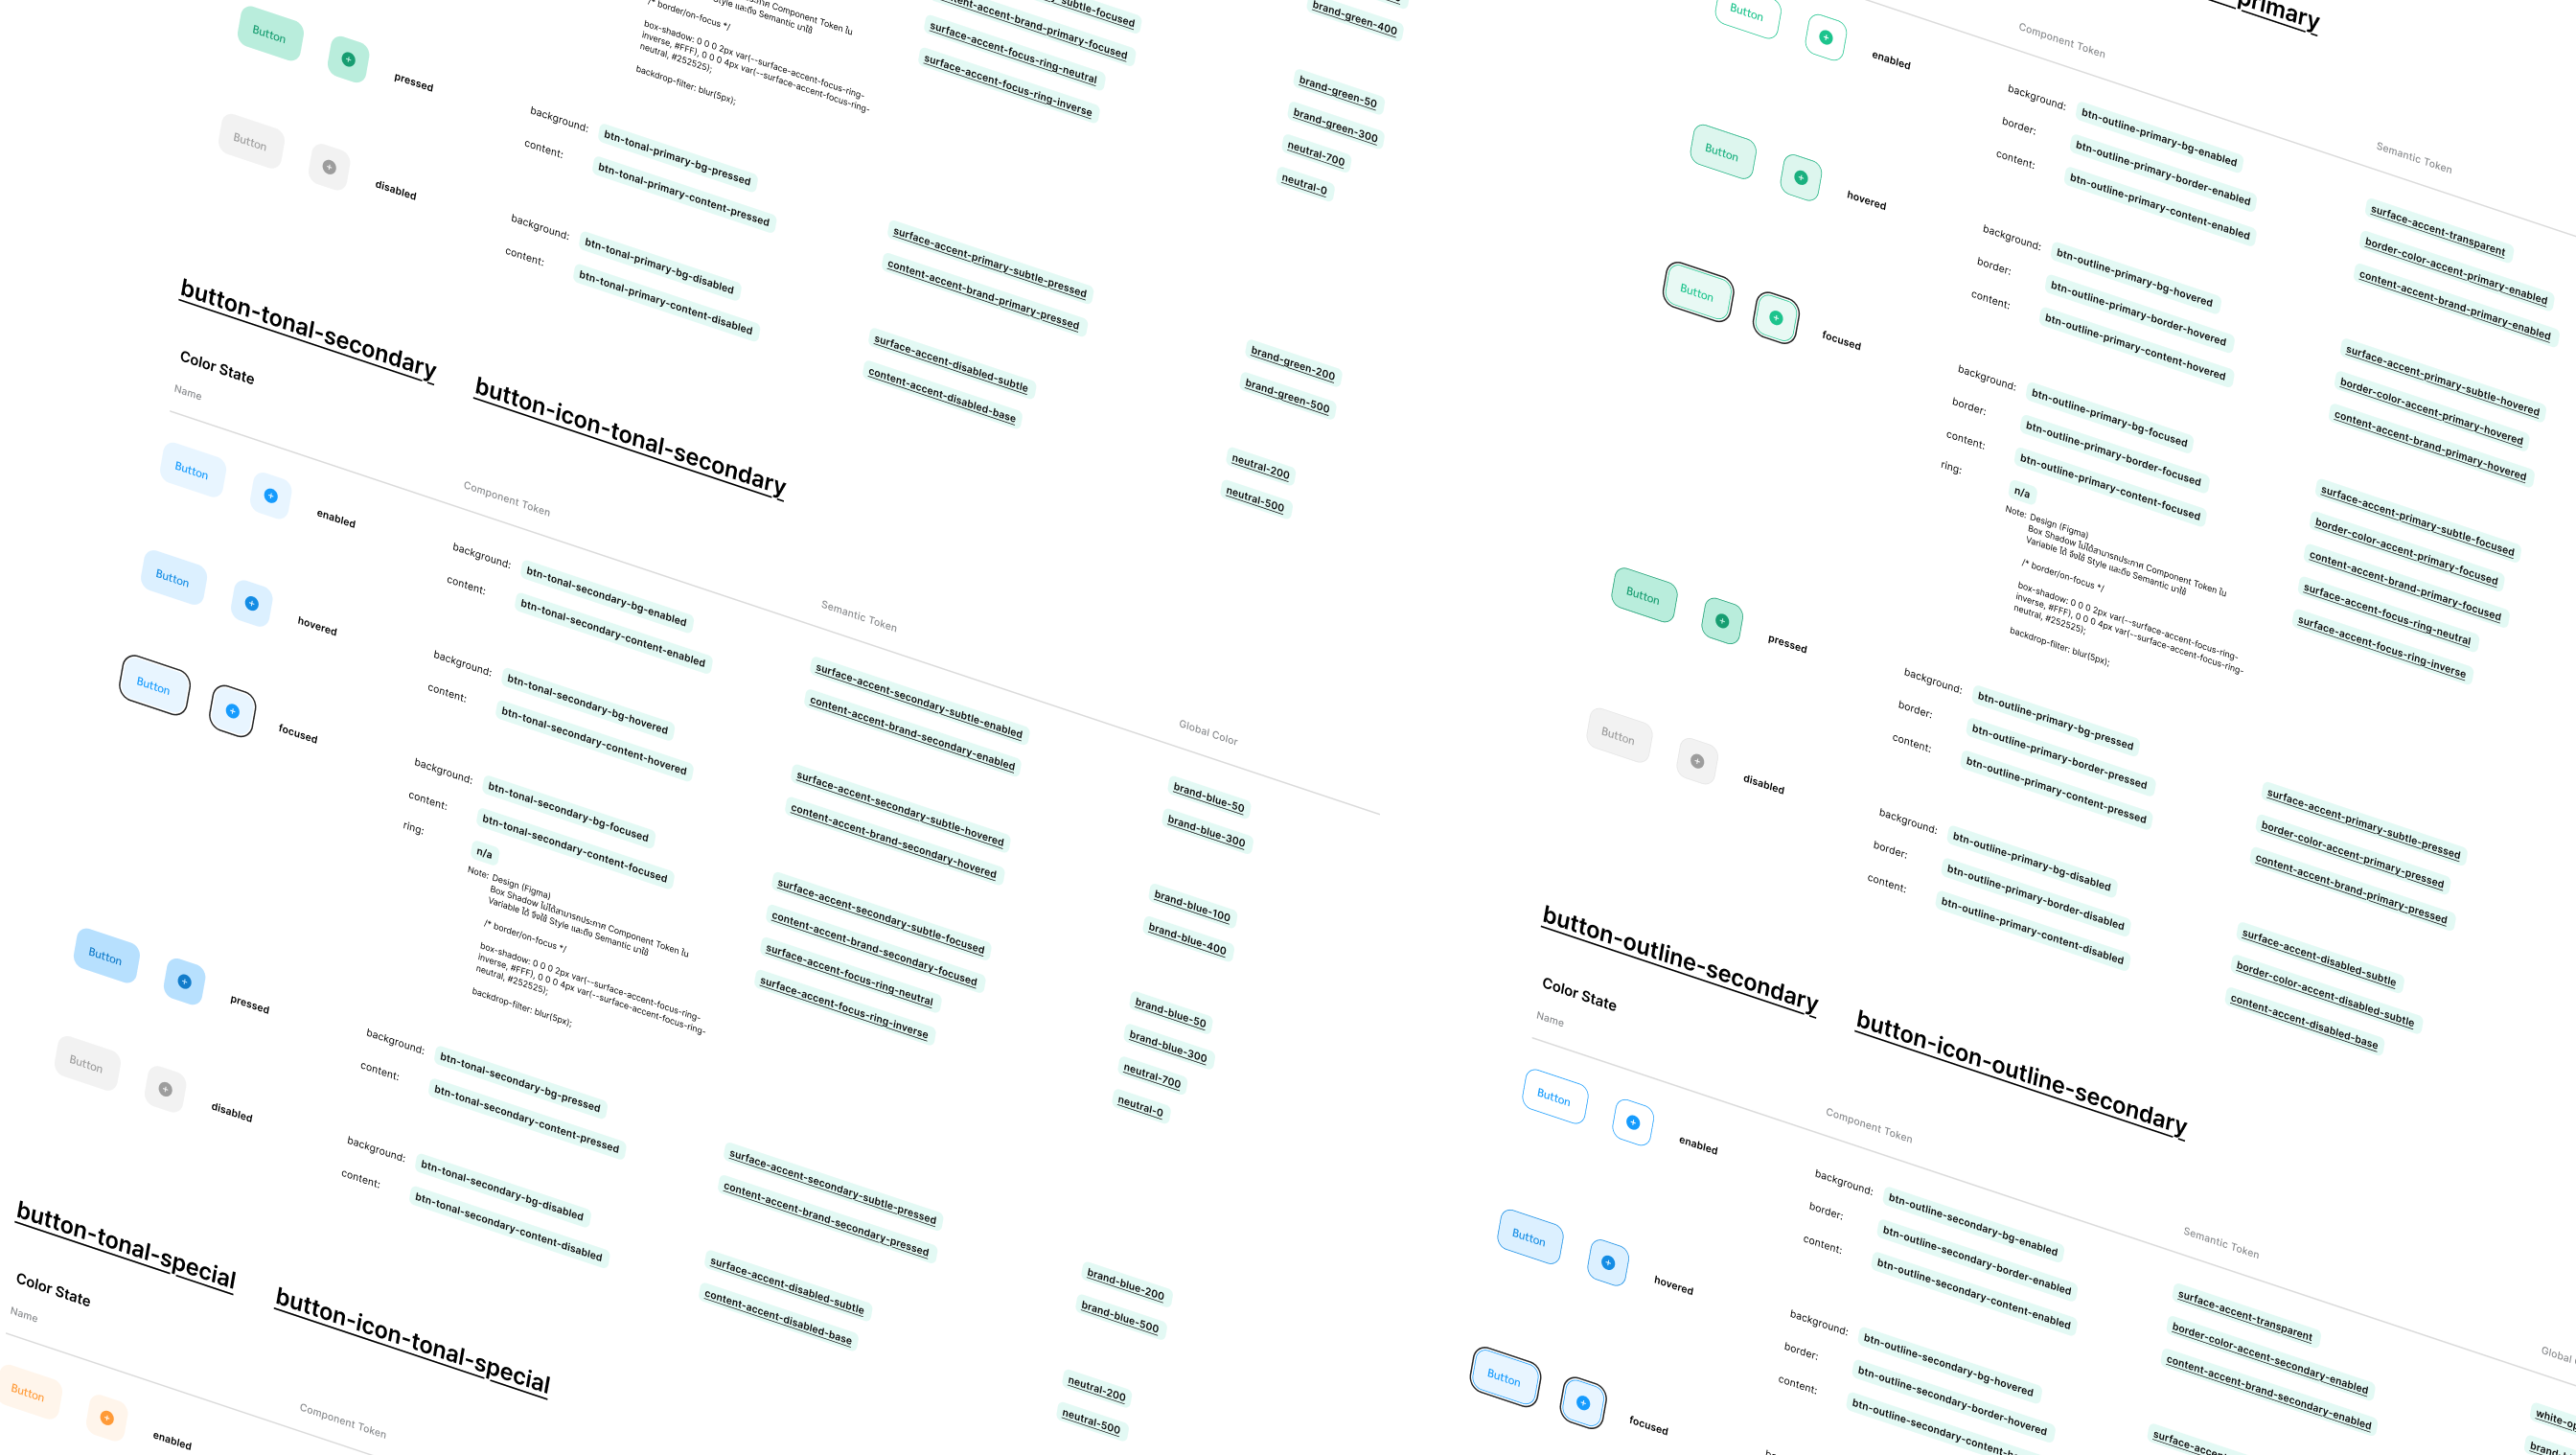
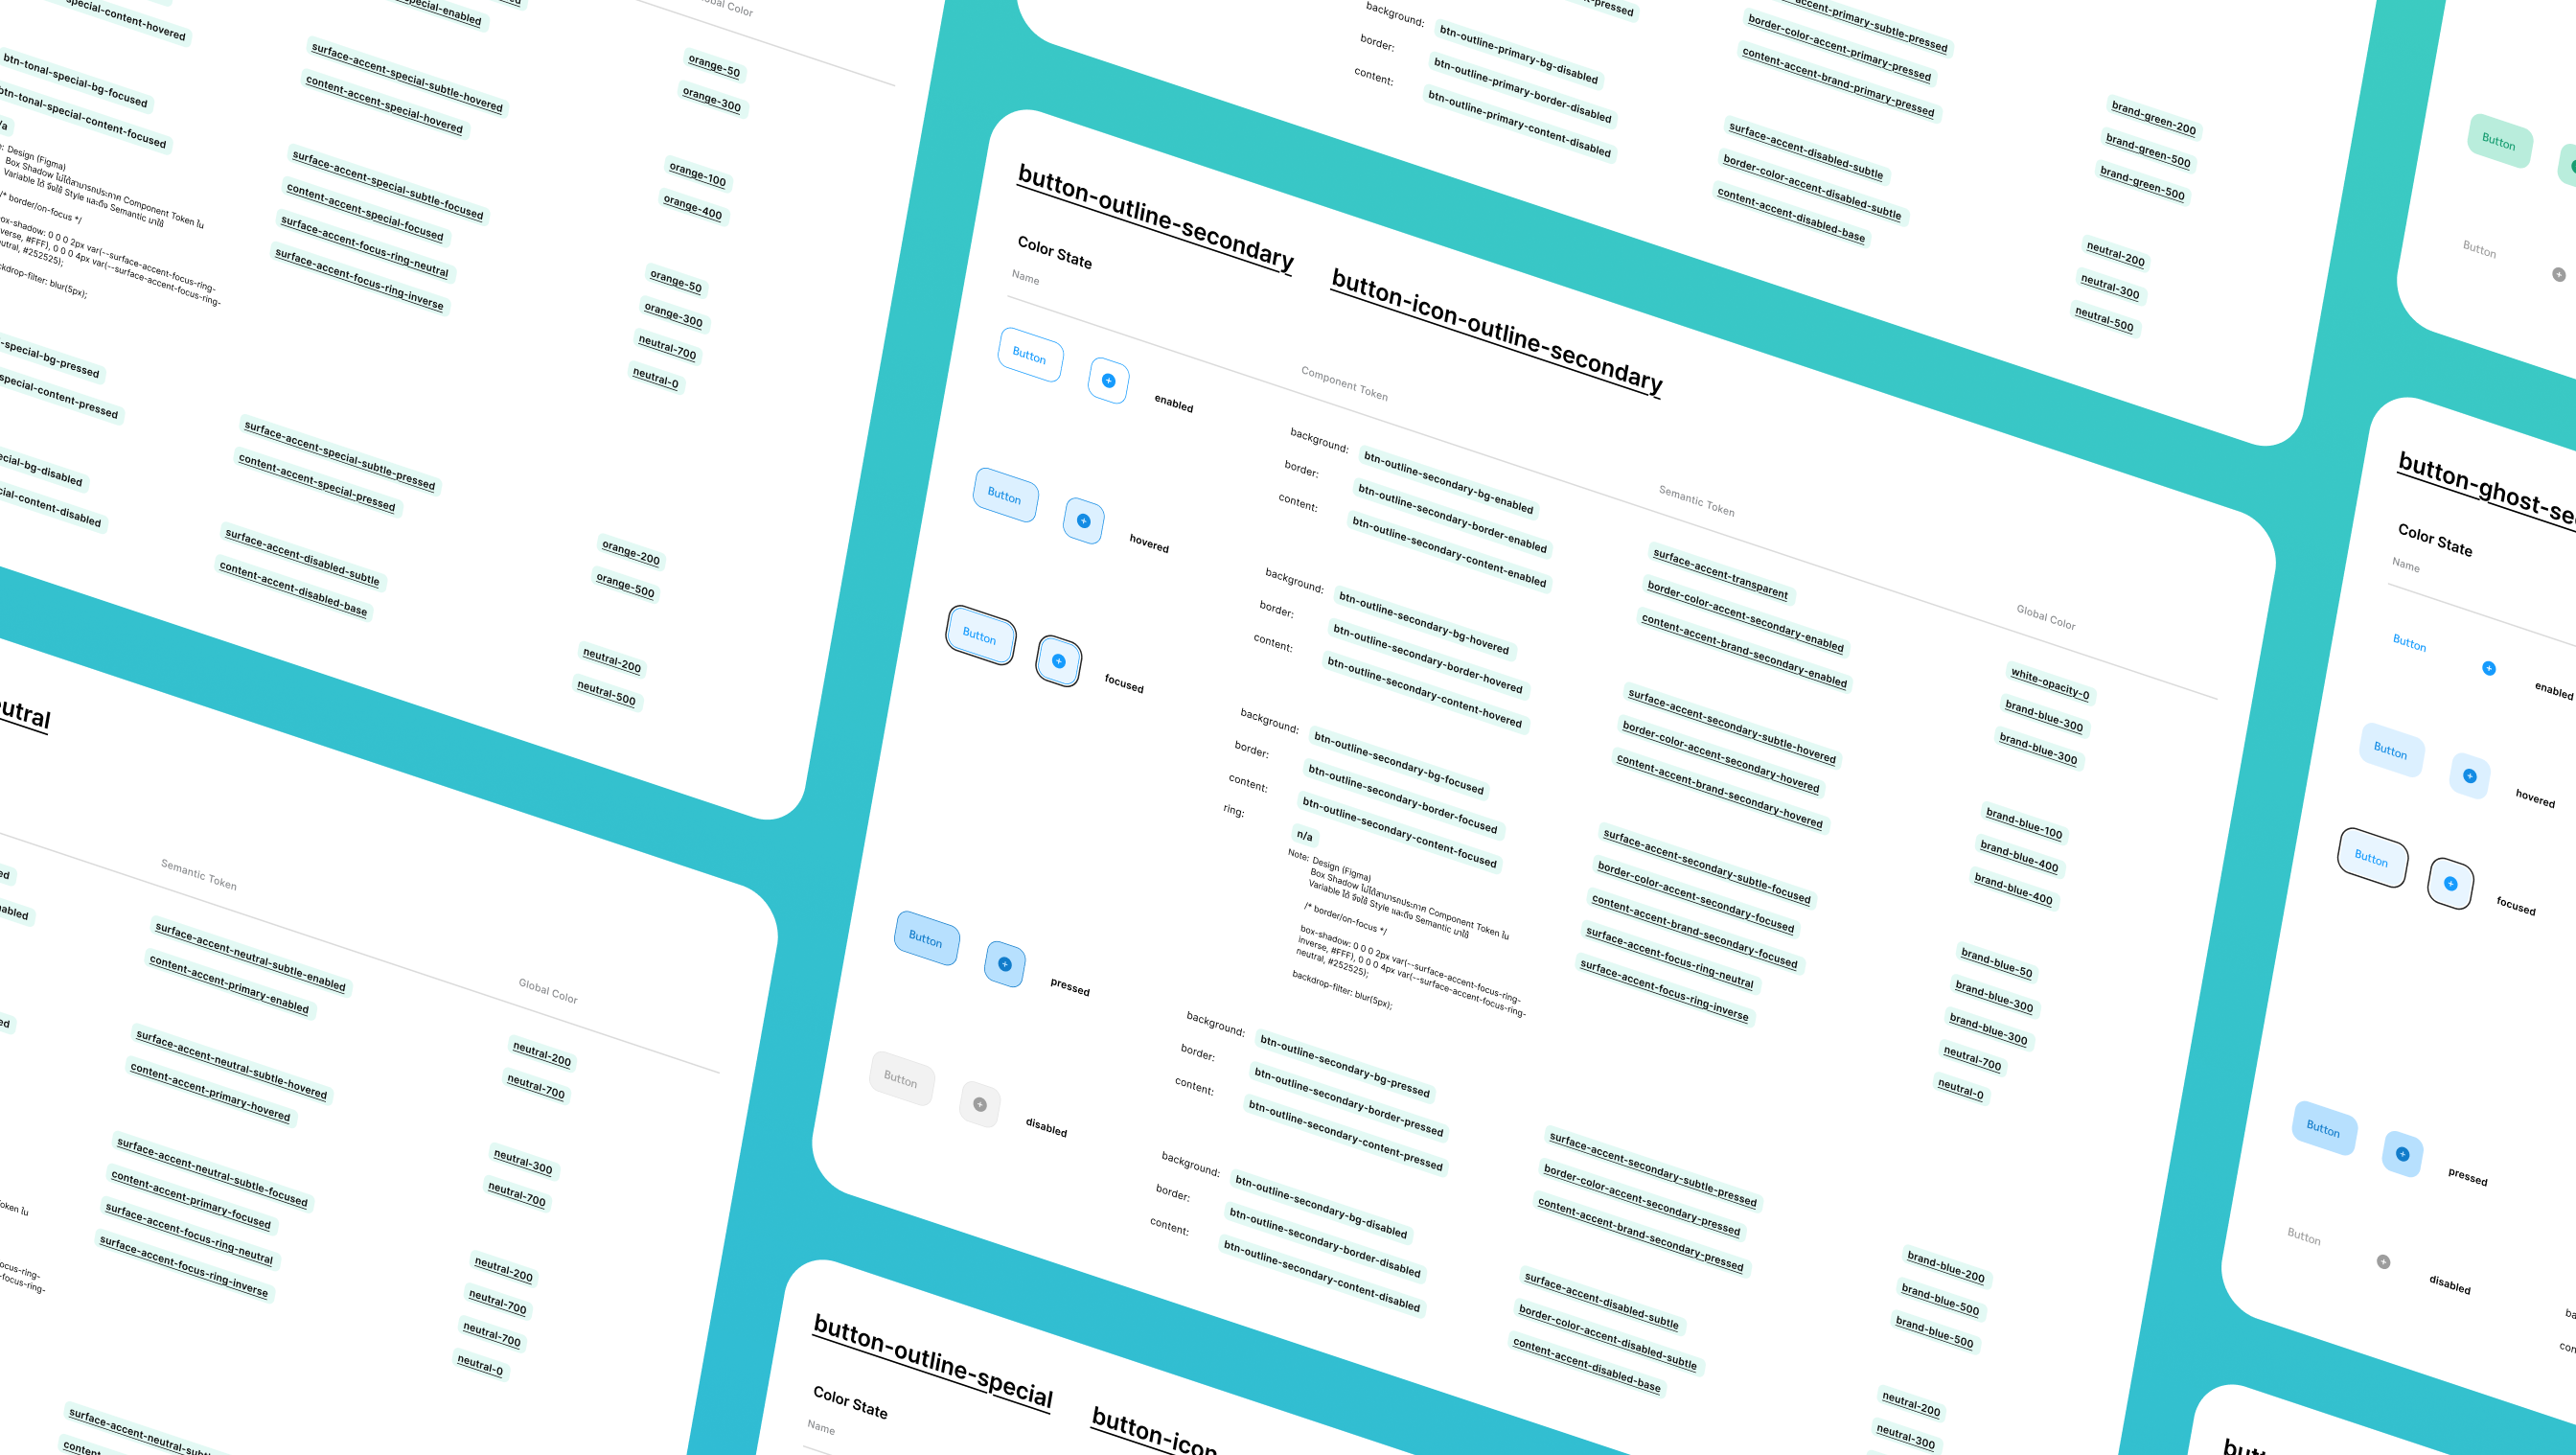
Fix Swiper nav from other pages: use initialSlide instead of slideTo
- HomeSwiper reads sessionStorage before render and passes initialSlide
  so Swiper starts at the correct slide without a post-init slideTo call
  (which was breaking Mousewheel scroll after cross-page navigation)
- Navbar uses sessionStorage + router.push instead of hash navigation
  to prevent browser native scroll from corrupting Swiper's activeIndex
- Also: LoadingScreen, HeroSection priority, Navbar transparent bg on /,
  touchAngle on inner Swiper, updated banner/work images

diff --git a/components/HomeSwiper.tsx b/components/HomeSwiper.tsx
@@ -1,6 +1,6 @@
 "use client";
 
-import { useEffect, useRef } from "react";
+import { useEffect, useRef, useState } from "react";
 import { Swiper, SwiperSlide } from "swiper/react";
 import { Mousewheel } from "swiper/modules";
 import type { Swiper as SwiperType } from "swiper";
@@ -13,6 +13,14 @@ const SLIDE_IDS = ["home", "work", "contact"];
 
 export default function HomeSwiper() {
   const swiperRef = useRef<SwiperType | null>(null);
+
+  const [initialSlide] = useState(() => {
+    if (typeof window === "undefined") return 0;
+    const target = sessionStorage.getItem("targetSlide");
+    if (!target) return 0;
+    const idx = SLIDE_IDS.indexOf(target);
+    return idx >= 0 ? idx : 0;
+  });
 
   useEffect(() => {
     const handler = (e: Event) => {
@@ -31,8 +39,15 @@ export default function HomeSwiper() {
       mousewheel={{ thresholdDelta: 30 }}
       speed={1000}
       slidesPerView={1}
+      initialSlide={initialSlide}
       className="!h-screen w-full"
-      onSwiper={(s) => { swiperRef.current = s; }}
+      onSwiper={(s) => {
+        swiperRef.current = s;
+        if (initialSlide > 0) {
+          sessionStorage.removeItem("targetSlide");
+          window.dispatchEvent(new CustomEvent("swiperSlideChange", { detail: SLIDE_IDS[initialSlide] }));
+        }
+      }}
       onSlideChange={(s) => {
         window.dispatchEvent(
           new CustomEvent("swiperSlideChange", { detail: SLIDE_IDS[s.activeIndex] })

diff --git a/components/Navbar.tsx b/components/Navbar.tsx
@@ -2,7 +2,7 @@
 
 import Link from "next/link";
 import Image from "next/image";
-import { usePathname } from "next/navigation";
+import { usePathname, useRouter } from "next/navigation";
 import { useState, useEffect } from "react";
 import { AnimatePresence, motion } from "framer-motion";
 import Container from "@/components/Container";
@@ -58,6 +58,7 @@ function NavLink({
 
 export default function Navbar() {
   const pathname = usePathname();
+  const router = useRouter();
   const [open, setOpen] = useState(false);
   const [activeSection, setActiveSection] = useState("home");
   const [showToast, setShowToast] = useState(false);
@@ -83,11 +84,15 @@ export default function Navbar() {
   }, [pathname]);
 
   const handleNavClick = (e: React.MouseEvent<HTMLAnchorElement>, id: string) => {
-    if (pathname === "/" && (id === "home" || id === "work")) {
-      e.preventDefault();
-      setOpen(false);
+    if (id !== "home" && id !== "work") return;
+    e.preventDefault();
+    setOpen(false);
+    if (pathname === "/") {
       setActiveSection(id);
       window.dispatchEvent(new CustomEvent("swiperNavigate", { detail: id }));
+    } else {
+      sessionStorage.setItem("targetSlide", id);
+      router.push("/");
     }
   };
 

diff --git a/app/layout.tsx b/app/layout.tsx
@@ -5,6 +5,7 @@ import "@/app/globals.css";
 
 import { Analytics } from "@vercel/analytics/next";
 import Navbar from "@/components/Navbar";
+import LoadingScreen from "@/components/LoadingScreen";
 
 const poppins = Poppins({
   subsets: ["latin"],
@@ -21,6 +22,7 @@ export default function RootLayout({ children }: { children: React.ReactNode }) 
   return (
     <html lang="en" className="font-sans">
       <body className={`${poppins.variable} font-body bg-bg text-body`}>
+        <LoadingScreen />
         <Navbar />
         {children}
         <Analytics />

diff --git a/components/HeroSection.tsx b/components/HeroSection.tsx
@@ -35,6 +35,7 @@ export default function HeroSection() {
                     alt=""
                     width={32}
                     height={32}
+                    priority
                     className="h-[1em] w-[0.75em] mt-[1.15%]"
                   />
                   ITHIPAT

diff --git a/components/ProjectsSectionSWP.tsx b/components/ProjectsSectionSWP.tsx
@@ -115,6 +115,7 @@ export default function ProjectsSectionSWP() {
             spaceBetween={40}
             keyboard={{ enabled: true }}
             resistanceRatio={0.4}
+            touchAngle={30}
             className="!overflow-visible w-full"
           >
             {projects.map((p, i) => (